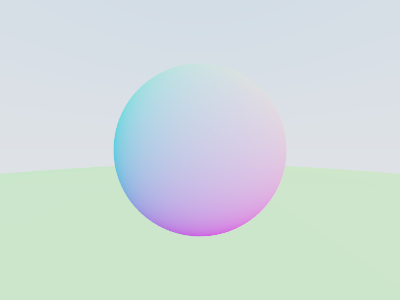
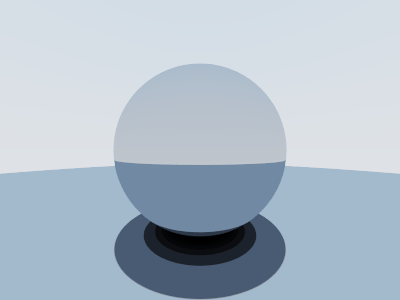
Ray bounce

diff --git a/src/Scene/Camera.cpp b/src/Scene/Camera.cpp
@@ -57,7 +57,7 @@ std::vector<glm::vec3> Camera::Render(usize samples, usize depth)
 
             for (usize s = 0; s < samples; ++s) {
                 Ray ray = GetRay(i, j);
-                color += RayColor(ray);
+                color += RayColor(ray, depth);
             }
 
             color /= static_cast<f32>(samples);
@@ -77,11 +77,11 @@ Ray Camera::GetRay(usize i, usize j)
     return Ray(m_Center, pixelSample - m_Center);
 }
 
-glm::vec3 Camera::RayColor(const Ray& ray)
+glm::vec3 Camera::RayColor(const Ray& ray, usize depth)
 {
     HitRecord record;
     if (m_Scene->Hit(ray, m_Clip, record)) {
-        return 0.5f * (record.normal + 1.0f);
+        return 0.5f * RayColor(Ray(record.p, record.normal), depth - 1);
     }
 
     // Skybox

diff --git a/src/Main.cpp b/src/Main.cpp
@@ -37,7 +37,7 @@ int main()
 
 	std::unique_ptr<Camera> camera = std::make_unique<Camera>(
 		IMAGE_WIDTH, IMAGE_HEIGHT,
-		0.0001f, std::numeric_limits<f32>::infinity()
+		0.001f, std::numeric_limits<f32>::infinity()
 	);
 
 	camera->SetScene(scene.get());

diff --git a/src/Scene/Camera.hpp b/src/Scene/Camera.hpp
@@ -17,7 +17,7 @@ public:
 
 private:
     Ray GetRay(usize i, usize j);
-    glm::vec3 RayColor(const Ray& ray);
+    glm::vec3 RayColor(const Ray& ray, usize depth);
 
 private:
     usize m_Width;
